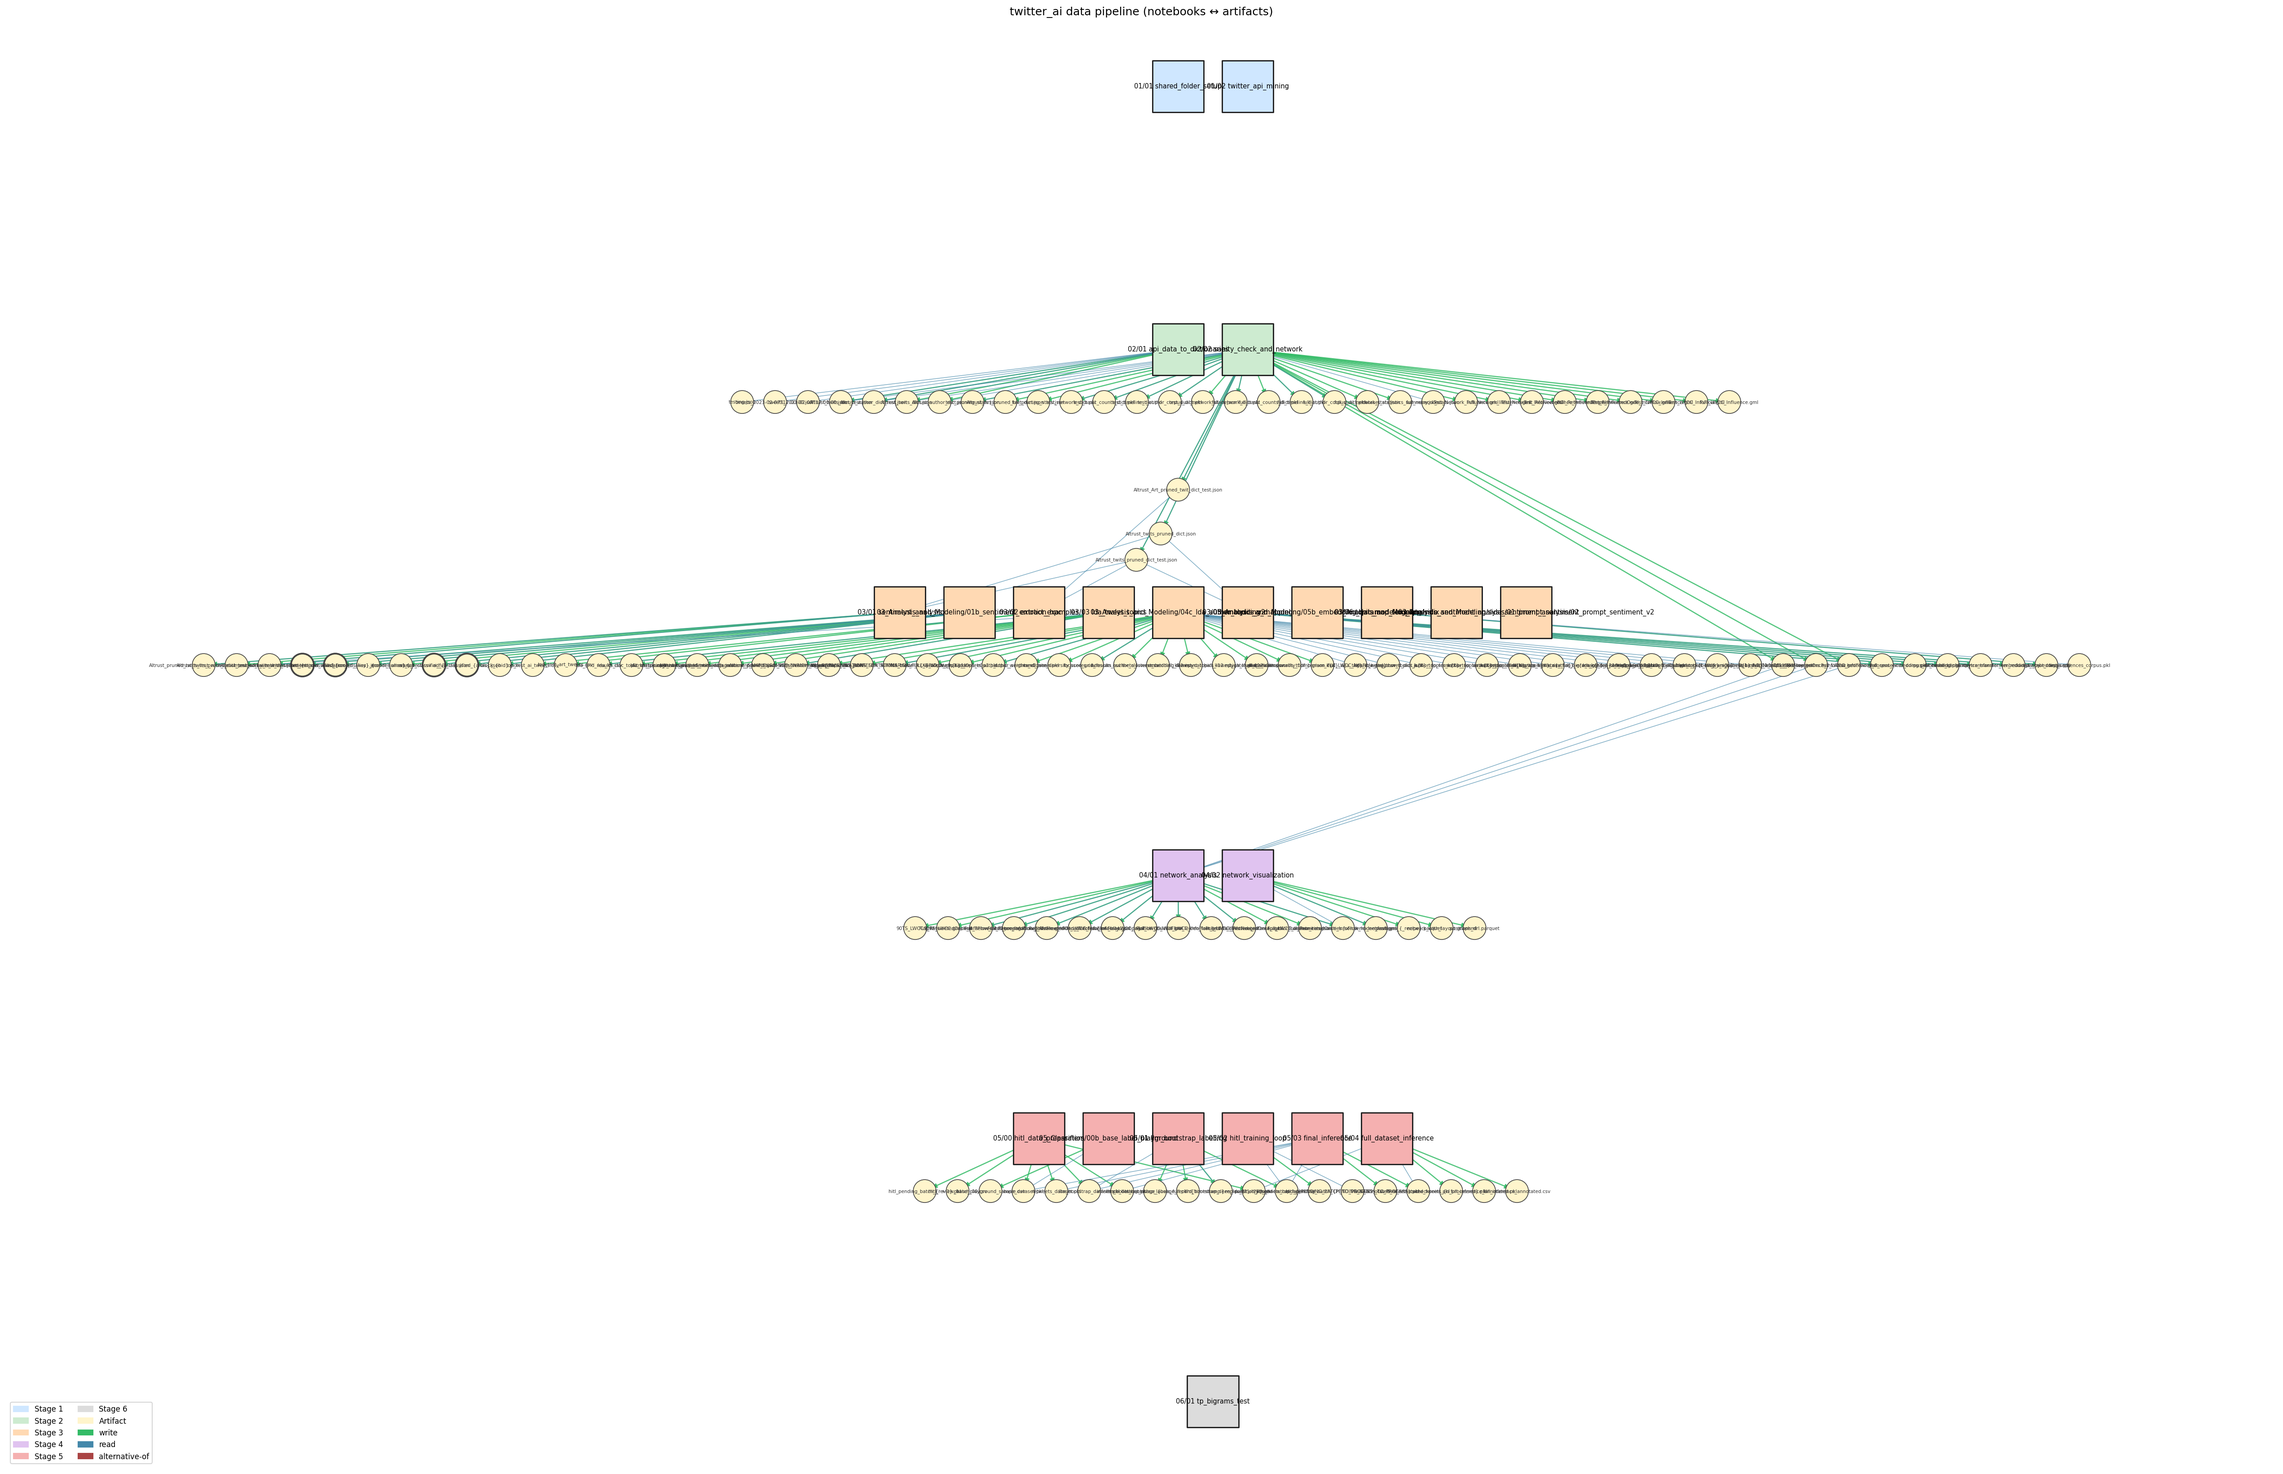
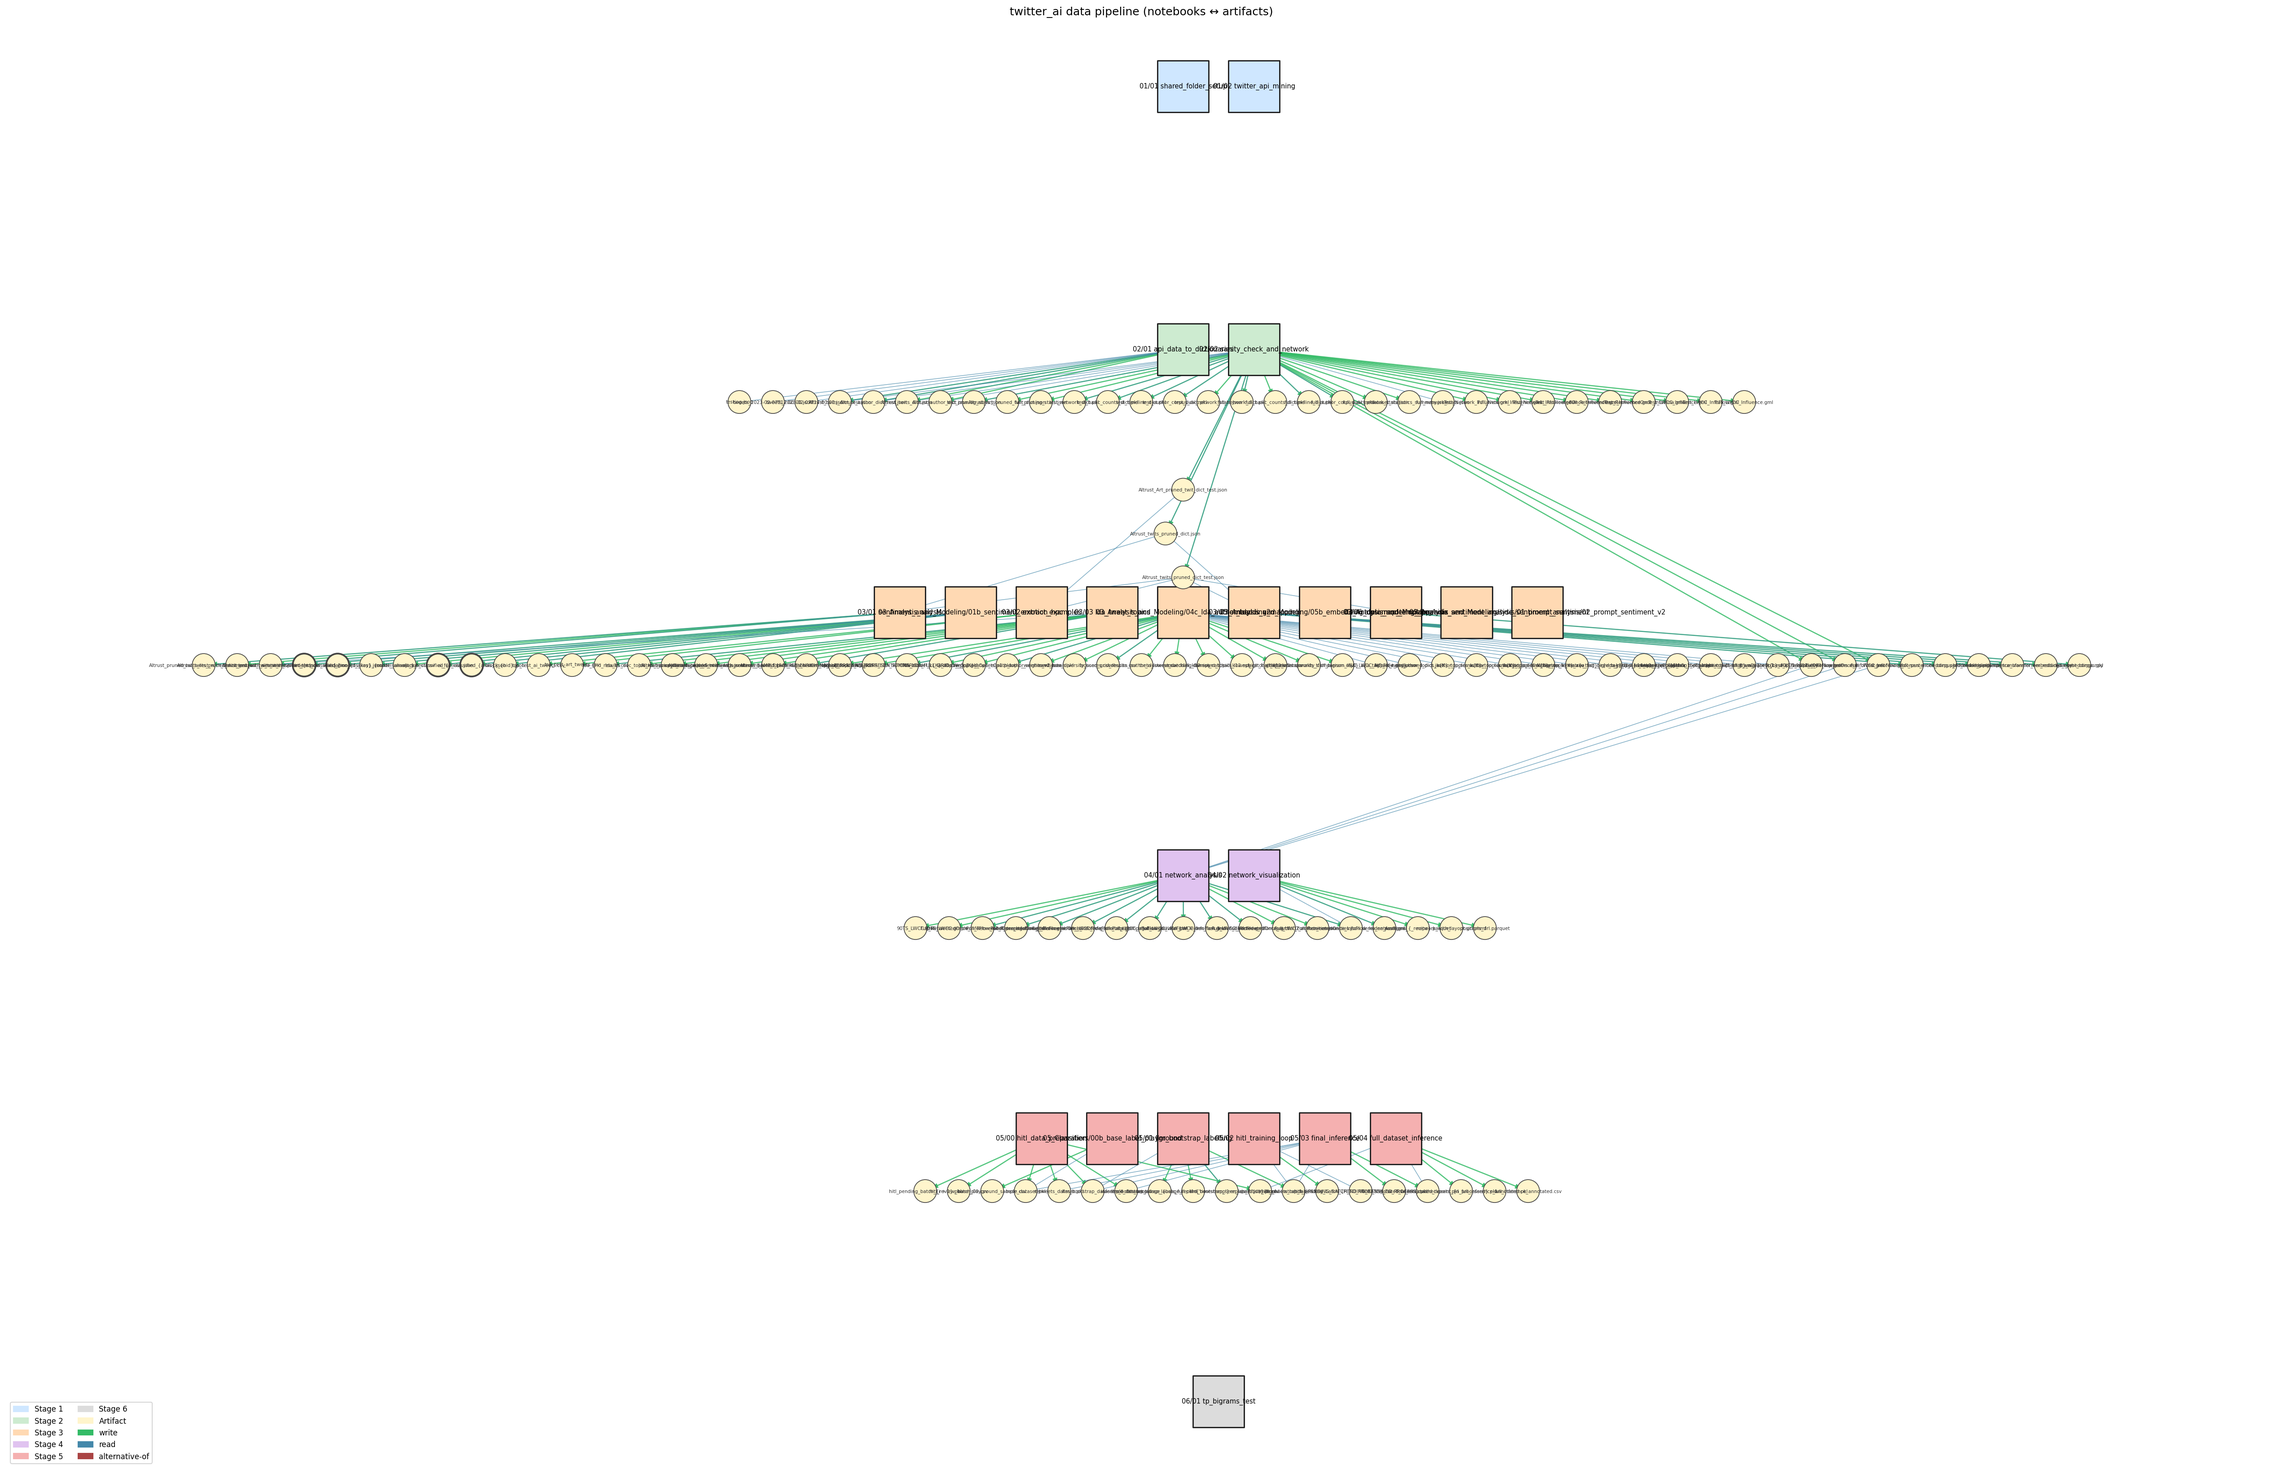
fix(06): read the test corpus directly; installs and NLTK data for current Colab
06 read test_sentences_corpus.pkl, which no notebook writes; it now reads
AItrust_twits_pruned_dict_test.json. Paths joined with `/` (folder + 'name'
on a Path raised TypeError), gensim installed on Colab, punkt_tab
downloaded (word_tokenize needs it on NLTK >= 3.8.2; same fix in 05),
empty cell dropped, title cell added. The scikit-learn half was run on a
synthetic test file; gensim was not run locally.

Trace: status, §6.5, §10.1, §12.3/§12.9 rows. Graph rebuilt (128
artifacts); validate clean.

diff --git a/docs/AUTHOR_AND_NETWORK_PIPELINE_TRACE.md b/docs/AUTHOR_AND_NETWORK_PIPELINE_TRACE.md
@@ -20,7 +20,7 @@ This document answers one question for every step of the pipeline: **how many tw
 > - `04_Network_Analysis/` holds two notebooks: `01_network_analysis` clusters both backbones with five methods **on their information-flow files** (`<stem>_InfoFlow.gml`, since 2026-10-09; the 2026-10-07 run used the influence orientation for four of the five methods) and exports one community JSON per backbone — its full run **completed on 2026-10-09 (18:42 CEST) without errors**, so all ten partitions and both JSONs are on Drive (§9.3); `02_network_visualization` renders either backbone on a GPU runtime (its 2026-10-08 run failed on the cu13 RAPIDS image; fixed, not yet re-run; §9.5). Both are the October rewrites (`01`, `02b`), renamed over their originals on 2026-10-09; the originals and the one-off `patch_notebook.py` are deleted (git history).
 > - The blog-figure package is on `main` under `src/blog_analysis/` (§11). The code that built its inputs — the 198,326 matched authors with community, topic, sentiment and emotion — is in no repository we can reach (§9.4); the published figures descend from the superseded retweeter backbone.
 > - **2026-10-10 — `Data Sets/Networks/` reorganised by stage.** One subfolder per pipeline stage, each written by one notebook: `1_retweet_dicts/`, `2_full_graphs/`, `3_backbones/`, `4_communities/<RetweetedOnce|LWCC>/`, `5_visualizations/<NETWORK>/`, `test/` (§12.7). The folder variables are one block, repeated in the Setup cell of `02/02`, `04/01` and `04/02`; file names are unchanged. The flat folder — current outputs and every legacy file — was emptied on 2026-10-10 and the network stage is being re-run `02` (with `generate_data = True`: `full_network_dict.pkl` lived there) → `04/01` → `04/02`. **`02` finished on 2026-10-10 (04:37 EDT) without errors**, its outputs stored in the notebook; every count reproduces the 2026-10-09 run exactly, and `1_retweet_dicts/`, `2_full_graphs/`, `3_backbones/` and `test/` hold exactly the files of §12.7 (checked against the public listing). `4_communities/` and `5_visualizations/` stay empty until `04/01` and `04/02` run; `04/01` needs the `networks-stage-layout` branch on GitHub `main`, because on Colab it clones `main` for `src.network.*` (`run_modularity_workflow(..., output_folder_path=)`). The folder is shared read-only at [Drive: Data Sets/Networks/](https://drive.google.com/drive/folders/1PlVu_Li9nSI7IDLLfURp09s_1bAGXpMq?usp=sharing) — the public listing shows file names, dates and sizes and is how a session can check what is on Drive. The numbers in this document come from the runs before the reorganisation. `03/04` and `03/04c` now read `3_backbones/Full_LWCC_InfoFlow.gml` (same graph as the legacy LWCC file).
-> - **2026-10-10 — `03_Analysis_and_Modeling` clean-up (in progress, branch `analysis-03-cleanup`).** Plan: delete the superseded notebooks; fix `01b`'s block resume (§6.2); fix `04c`'s author filter and sentiment join (§6.4); point `03`, `05`, `06` at the current corpus (§6.3, §6.5). Done so far: **B1** — `01_sentiment_analysis_v2` (2025 corpus, never run; `01b` covers its models) and `04_lda_author_topics` (every section is in `04c`) deleted; both remain in git history. **B2** — `01b` renamed `01b_sentiment_emotion_hpc` and its full-run section rewritten with verified blocks and a verifier for existing outputs (§6.2.2); the stored AI+Art sentiment and AI emotion files are known bad and the other two unverified until 8a runs on the cluster. **B4** — `03_lda_tweet_topics` rewired to the current sentiment file: two cells that could not run fixed, recovery/test/empty cells removed, analysis section kept and pointed at the enriched output (§6.3). **B5** — `05_embedding_mapping` pointed at the current corpus and made runnable; the collaborator's OpenAlex workflow moved to `05b_embedding_datamap_template` (§6.5). Drive `Cleaned Data/` was pruned the same day (§12.3).
+> - **2026-10-10 — `03_Analysis_and_Modeling` clean-up (in progress, branch `analysis-03-cleanup`).** Plan: delete the superseded notebooks; fix `01b`'s block resume (§6.2); fix `04c`'s author filter and sentiment join (§6.4); point `03`, `05`, `06` at the current corpus (§6.3, §6.5). Done so far: **B1** — `01_sentiment_analysis_v2` (2025 corpus, never run; `01b` covers its models) and `04_lda_author_topics` (every section is in `04c`) deleted; both remain in git history. **B2** — `01b` renamed `01b_sentiment_emotion_hpc` and its full-run section rewritten with verified blocks and a verifier for existing outputs (§6.2.2); the stored AI+Art sentiment and AI emotion files are known bad and the other two unverified until 8a runs on the cluster. **B4** — `03_lda_tweet_topics` rewired to the current sentiment file: two cells that could not run fixed, recovery/test/empty cells removed, analysis section kept and pointed at the enriched output (§6.3). **B5** — `05_embedding_mapping` pointed at the current corpus and made runnable; the collaborator's OpenAlex workflow moved to `05b_embedding_datamap_template` (§6.5). **B6** — `06_topic_modeling_appendix` reads the test corpus directly and installs what it needs (§6.5). Drive `Cleaned Data/` was pruned the same day (§12.3).
 > - Still open: the author-level LDA loader bug (§6.4), the sentiment block drift (§6.2), the first-generation corpus in `03/03` (§6.3), the viz re-render, and the blog figures on the corrected backbone (§11.3).
 >
 > **Reading conventions.** `02/02`, `04/01` and `04/02` without a cell number mean today's notebooks (`02_sanity_check_and_network_generation`, `01_network_analysis`, `02_network_visualization`); passages dated before 2026-10-09 call the same notebooks `02b`, `01` and `04/02`, and this document now writes `02`, `01` and `04/02` for them. A reference **with a cell number**, such as `02/02 cell 44` or `04/01 cell 18`, points into the **deleted original** of that notebook, whose stored outputs are the source of every number in §§1–5; the current `02` reproduces the corpus cells unchanged under the same headings, while the current `01` and `04/02` share only the method with their originals. `02/03` is the deleted cleaning notebook. `Full_Network.gml`, `.graphml`, `.gexf`, `.json`, `Test_Network.*`, `LWCC.gml/.graphml`, every `Final_OutThreshold1*` file, `viz_outputs_Final_leiden_fast/`, `AItrust_pruned_twits_with_sentiment_cleaned.json` and `top_retweets_by_topic_*.csv` are legacy files with no producing notebook (the `Networks/` ones were deleted in the 2026-10-10 reorganisation); `Full_Network_Influence.gml` is the same graph as `Full_Network.gml`.
@@ -489,9 +489,9 @@ Minimal fix: in `load_lcc_node_ids_lightweight` replace `line.startswith("id ")`
 
 - `01_sentiment_analysis_v2.ipynb` — **deleted 2026-10-10**: no stored outputs, read only the first-generation `AItrust_pruned_twits.json`, and its models are covered by `01b`.
 - `02_extract_examples.ipynb` — reads the AI and AI+Art *test* files only; no counts stored.
-- `05_embedding_mapping.ipynb` — sentence embeddings → UMAP → HDBSCAN on the test corpus, then on the full corpus restricted to tweets with `like_count > 0`. **Updated 2026-10-10 (B5):** reads the current `AItrust_twits_pruned_dict{_test,}.json` (it read the first-generation `AItrust_pruned_twits{_test,}.json`); every path joined with `/` (they were `folder + 'name'` on a `Path` → `TypeError`, which the graph showed as the unresolvable `Cleaned DataAItrust_pruned_twits*.json`); `%%time` moved to line 1 in three cells (below a comment it is a `UsageError`); empty cells dropped (100 → 43 cells with the template moved out). The corpus-loading cells were run on a synthetic test file; the embedding/UMAP/HDBSCAN half was not run locally. `.npy`/`.pkl` files already in `Models/Topic Modeling/` predate this and come from the first-generation corpus.
+- `05_embedding_mapping.ipynb` — sentence embeddings → UMAP → HDBSCAN on the test corpus, then on the full corpus restricted to tweets with `like_count > 0`. **Updated 2026-10-10 (B5):** reads the current `AItrust_twits_pruned_dict{_test,}.json` (it read the first-generation `AItrust_pruned_twits{_test,}.json`); every path joined with `/` (they were `folder + 'name'` on a `Path` → `TypeError`, which the graph showed as the unresolvable `Cleaned DataAItrust_pruned_twits*.json`); `%%time` moved to line 1 in three cells (below a comment it is a `UsageError`); `punkt_tab` downloaded with `punkt` (B6); empty cells dropped (100 → 43 cells with the template moved out). The corpus-loading cells were run on a synthetic test file; the embedding/UMAP/HDBSCAN half was not run locally. `.npy`/`.pkl` files already in `Models/Topic Modeling/` predate this and come from the first-generation corpus.
 - `05b_embedding_datamap_template.ipynb` — **split out of `05` on 2026-10-10.** A collaborator's workflow for OpenAlex scientific abstracts (Specter-2 embeddings → UMAP → EVoC / HDBSCAN → cluster labels from a *local* Llama 3 70B via `llama_cpp` → DataMapPlot), shared as a template. It reads none of this project's files (`one_millions_filtered_OA_sample_longer_abstracts.bz` is not on Drive), so it has no edges in the pipeline graph.
-- `06_topic_modeling_appendix.ipynb` — sklearn/gensim LDA demos; no corpus counts.
+- `06_topic_modeling_appendix.ipynb` — scikit-learn LDA (TF-IDF, K = 5/10/15/20) and gensim LDA (u_mass coherence, K = 5/10) on the **test** corpus. **Updated 2026-10-10 (B6):** reads `AItrust_twits_pruned_dict_test.json` directly (it read `test_sentences_corpus.pkl`, which no notebook writes); `/` path joins; gensim installed on Colab; NLTK `punkt_tab` downloaded (NLTK ≥ 3.8.2 needs it for `word_tokenize` — added to `05` too). The scikit-learn half was run on a synthetic test file; the gensim half was not run locally.
 
 ## 7. The AI+Art author subset — what exists and what does not
 
@@ -714,6 +714,7 @@ python3 src/scripts/pipeline_graph.py downstream 02_Processing/02_sanity_check_a
 - **Rebuilt 2026-10-10 (B2)** after renaming `01b` and rewriting its Section 8: **22 notebooks, 133 artifacts, 110 write edges, 88 read edges**. The full-output and block paths are now built inside `output_path_for()` / `block_dir_for()`, so six declared edges were added to `pipeline_overrides.yaml` (writes and read-backs of `{ai,art}_full_classified_{alias}.json` and `Blocks/{ds_key}__{alias}__{num_blocks}blocks/block_{bid}.json`). `validate` clean.
 - **Rebuilt 2026-10-10 (B4)** after rewiring `03/03`: **22 notebooks, 131 artifacts, 110 write edges, 88 read edges**. With `DATA_DIR` / `MODELS_DIR` now derived from the Setup-cell folders, the parser resolves `03`'s real reads (the sentiment file, its own enriched output and grid CSV) and writes; the phantom `.jsonl` input, the `authorlite_*` experiment files, the block/stem templates and the declared `.jsonl.gz` write (merge-recovery section, removed) left the graph. `validate` clean after dropping the `.gz` line from the folder trees.
 - **Rebuilt 2026-10-10 (B5)** after splitting `03/05`: **23 notebooks, 129 artifacts, 110 write edges, 88 read edges**. `05`'s two unresolvable reads (`Cleaned DataAItrust_pruned_twits{,_test}.json`) became reads of the current corpus files; `05b` has no edges. `validate` clean.
+- **Rebuilt 2026-10-10 (B6)**: **23 notebooks, 128 artifacts, 110 write edges, 88 read edges**. `06`'s read of the producer-less `test_sentences_corpus.pkl` became a read of the test corpus. The `joblib.dump` / gensim `.save` outputs of `06` are invisible to the parser, as before. `validate` clean.
 
 ### 10.2 What the parser cannot see — and how it is covered
 
@@ -875,7 +876,7 @@ Figure 1 (timeline) needs nothing.
 | `AItrust_pruned_twits_with_sentiment__SAMPLE{SAMPLE_ENRICH_N}.json` | `03/03` | — | Optional sample of the input when `SAMPLE_ENRICH = True` (off by default); with it the outputs get a `__SAMPLE…` suffix. |
 | `AItrust_topics_k5_metadata.json` | `03/03` | — | Top terms and settings of the K = 5 tweet-topic model. |
 | `AItrust_twits_pruned_dict.json` | `02/02` | `02/02`, `03/01`, `03/05` | **AI corpus**: 17,410,035 tweets after dedup + AI keyword + English + date ≥ 2022-10-31, with `processed_text` added (§2). |
-| `AItrust_twits_pruned_dict_test.json` | `02/02` | `02/02`, `03/01`, `03/02`, `03/05` | Test-branch AI corpus (881 tweets). |
+| `AItrust_twits_pruned_dict_test.json` | `02/02` | `02/02`, `03/01`, `03/02`, `03/05`, `03/06` | Test-branch AI corpus (881 tweets). |
 | `AItrust_twits_pruned_dict_test_with_sentiment.json` | `03/01` | — | Sentiment v1 test output (current file name). |
 | `dataset_statistics_summary.json` | `02/02` | — | Master summary of the dataset (timeframe, funnel, authors, typology, network topology); mirrored in the repository at `notebooks/02_Processing/dataset_statistics_summary.json`. |
 | `full_author_corpus_dict.pkl` | `02/02` | `02/02` | author id → list of that author's raw tweet texts, 4,775,711 authors (input for author-level text models; §3). |
@@ -993,7 +994,6 @@ Figure 1 (timeline) needs nothing.
 | `LDA/lda_k5_topics_metadata.json` | `03/03` | — | Metadata of the K = 5 tweet-topic LDA (`03/03`). |
 | `processed_sentence_transformer_embeddings.npy` | `03/05` | `03/05` | Post-processed sentence-transformer embeddings (`03/05`). |
 | `sentence_transformer_reduced_embeddings.npy` | `03/05` | `03/05` | Dimensionality-reduced embeddings for the map (`03/05`). |
-| `test_sentences_corpus.pkl` | — | `03/06` | Test sentence corpus read by the appendix (no producer in the repository). |
 | `test_sentences_corpus_embedding.pkl` | `03/05` | `03/05` | Same per-tweet dictionary for the test corpus (`03/05`, `do_corpus = True`). |
 
 ### 12.10 `HPC: /projects/ComputationalPhilosophyLab/TwitterDataAnalysis/Data Sets/`
